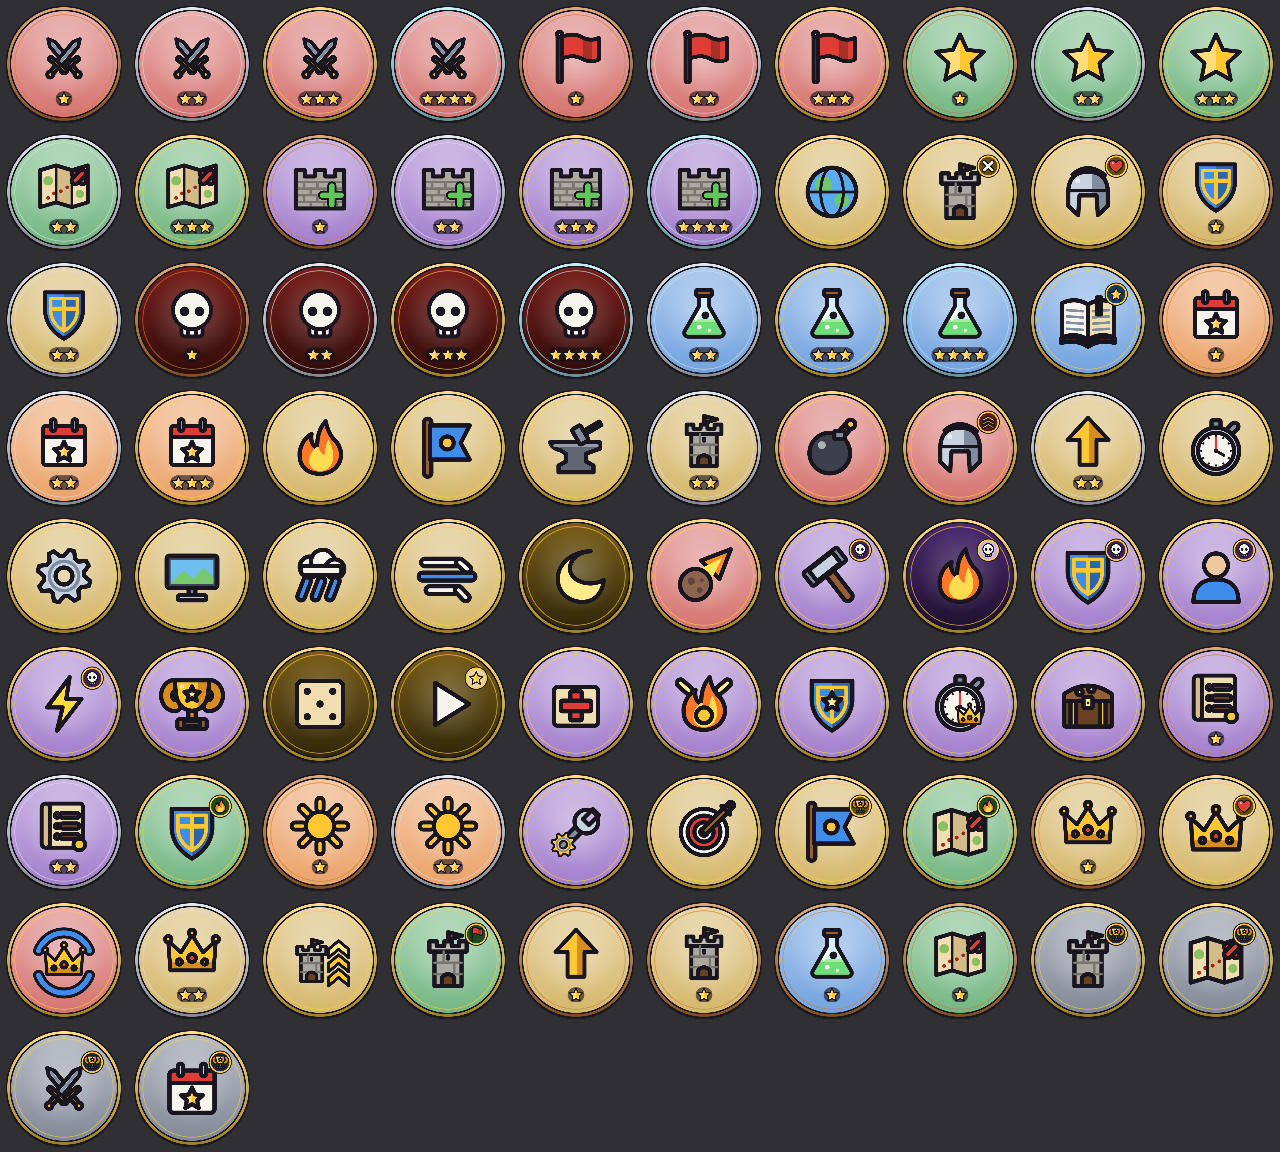
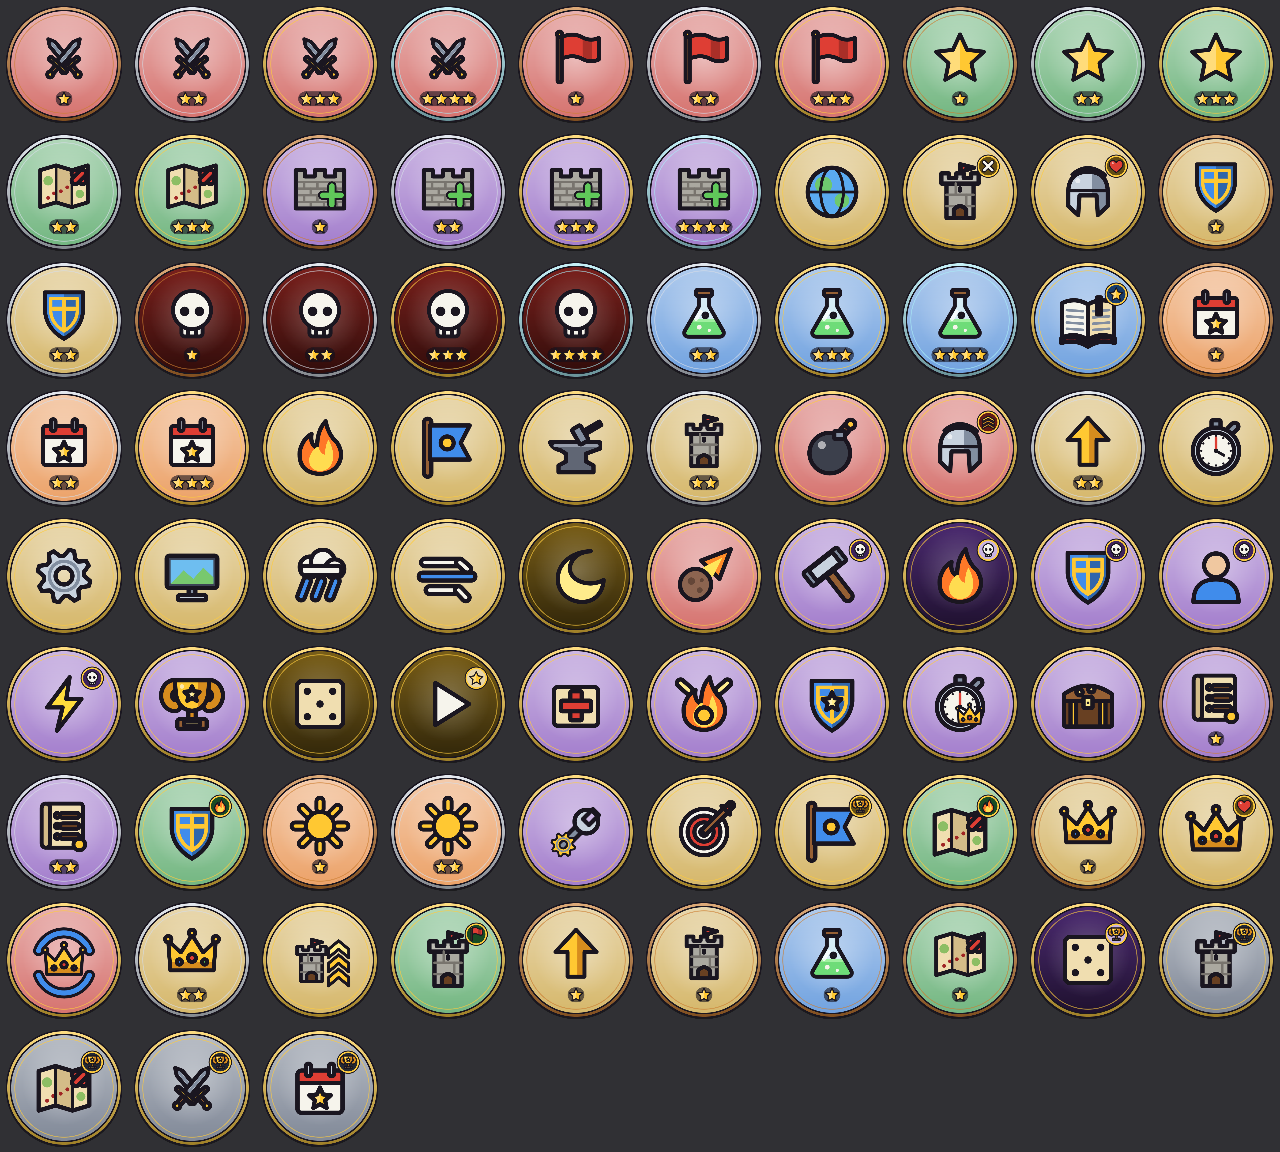
Osiągnięcia po D6: ikona „Wygrany zakład” (kość z pucharem), stykówka i mapowanie PGS
Claude-Session: https://claude.ai/code/session_011uoiNXrFzB1iubmZS8usCs

Changed region(s): [[0.125, 0.875, 0.3125, 1.0], [0.8125, 0.7812, 0.9688, 0.875], [0.0312, 0.9062, 0.0938, 0.9688]]

diff --git a/app/src/test/java/com/centurywar/meta/AchievementsTest.kt b/app/src/test/java/com/centurywar/meta/AchievementsTest.kt
@@ -275,8 +275,8 @@ class AchievementsTest {
             listOf("first_research", AchievementMetric.RESEARCH_LEVELS, 1L, 10, AchievementCategory.RESEARCH),
             listOf("stages_3", AchievementMetric.STAGES, 3L, 20, AchievementCategory.CAMPAIGN),
         )
-        // Dopisane na końcu katalogu, w ustalonej kolejności.
-        assertEquals(expected.map { it[0] }, Achievements.all.takeLast(4).map { it.id })
+        // Dopisane na końcu katalogu R6-01, w ustalonej kolejności (po nich tylko wager_40 z 4.11).
+        assertEquals(expected.map { it[0] } + "wager_40", Achievements.all.takeLast(5).map { it.id })
         for (row in expected) {
             val a = Achievements.byId(row[0] as String)!!
             assertEquals(row[1], a.metric)

diff --git a/app/src/test/java/com/centurywar/meta/Content176Test.kt b/app/src/test/java/com/centurywar/meta/Content176Test.kt
@@ -76,7 +76,7 @@ class Content176Test {
         // Nowe metryki są dopisane na końcu enumu (zapis po nazwie i kolejność w JSON).
         val metrics = AchievementMetric.values().map { it.name }
         assertEquals(listOf("COMMANDER_SUMMONED", "COMMANDER_SURVIVOR", "COMMANDER_PULSES",
-            "COMMANDER_WINS", "TURRET_TIER_FOUR", "LATE_NO_TURRET_WINS"), metrics.takeLast(6))
+            "COMMANDER_WINS", "TURRET_TIER_FOUR", "LATE_NO_TURRET_WINS", "WAGER_40"), metrics.takeLast(7))
         for (key in listOf("cx176_tiers", "cx176_tiers_d", "cx176_commander_tips",
             "cx176_commander_tips_d", "wn_176_content")) assertEquals(key, 10, L.raw(key)?.size)
         assertTrue("wn_176_content" in WhatsNewCatalog.releases.first().textKeys)
